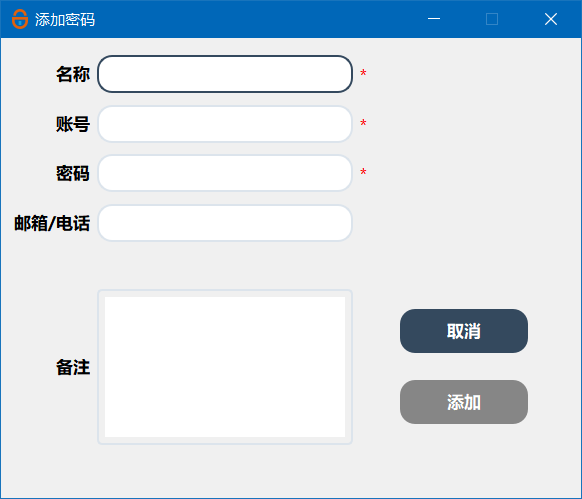
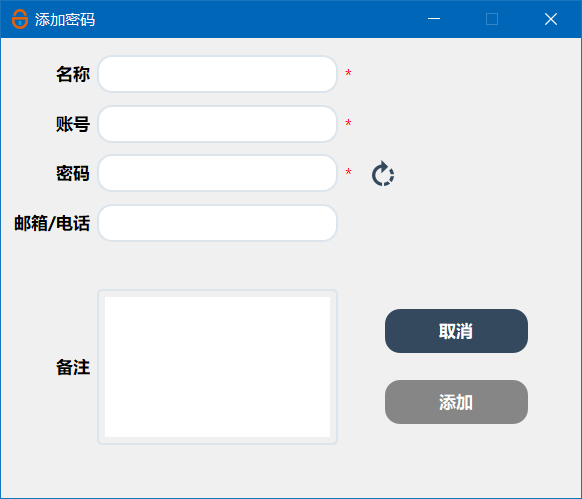
🏳🌈[0.9.6] [update] 更新说明

diff --git a/README.md b/README.md
@@ -93,13 +93,13 @@ A lite password manager
 
 输入的密码进行`md5`运算得到密钥，用数据库或注册表中保存的密钥验证，若成功则进入；~~否则在$n$ 次失败后锁定（或者删库）~~
 
-<img src="readme\image-20210129013101290.png" alt="image-20210129013101290" style="zoom:80%;" />
+<img src="readme\image-20210129013101290.png" alt="image-20210131170058836" style="zoom:80%;" />
 
 ### 管理密码
 
 添加密码，弹出一个表单填写，列举出如下项目
 
-<img src="readme\image-20210129013231793.png" alt="image-20210129013231793" style="zoom:80%;" />
+<img src="readme\image-20210129013231793.png" alt="image-20210131165433224" style="zoom:80%;" />
 
 每一个项目都有一个独立id作为标识，id为添加时刻时间戳，不在表中显示
 
@@ -109,9 +109,9 @@ A lite password manager
 
 其中，`名称`，`账号`，`密码`为必填项，`密码`需要加密保存，加密时使用管理员密码（也就是用户进入时输入的密码）的`hash`（跟上面不一样）
 
-<img src="readme\image-20210129013402419.png" alt="image-20210129013402419" style="zoom:80%;" />
+<img src="readme\image-20210129013402419.png" alt="image-20210131165807753" style="zoom:80%;" />
 
-<img src="readme\image-20210129013436890.png" alt="image-20210129013436890" style="zoom:80%;" />
+<img src="readme\image-20210129013436890.png" alt="image-20210131165944414" style="zoom:80%;" />
 
 *   单击表头按表头内容自动排序
 *   搜索框根据表头按照关键字筛选，实时显示
@@ -126,5 +126,7 @@ $n$ 分钟内无操作，密码管理器锁定，需要重新登录
 
 ### 密码生成
 
-附加功能
+附加功能，在添加密码页面进入，生成密码后，点击确定，生成的密码会自动填充到添加密码界面的密码框中
+
+<img src="readme\image-20210131165245145.png" alt="image-20210131165245145" style="zoom:80%;" />
 
